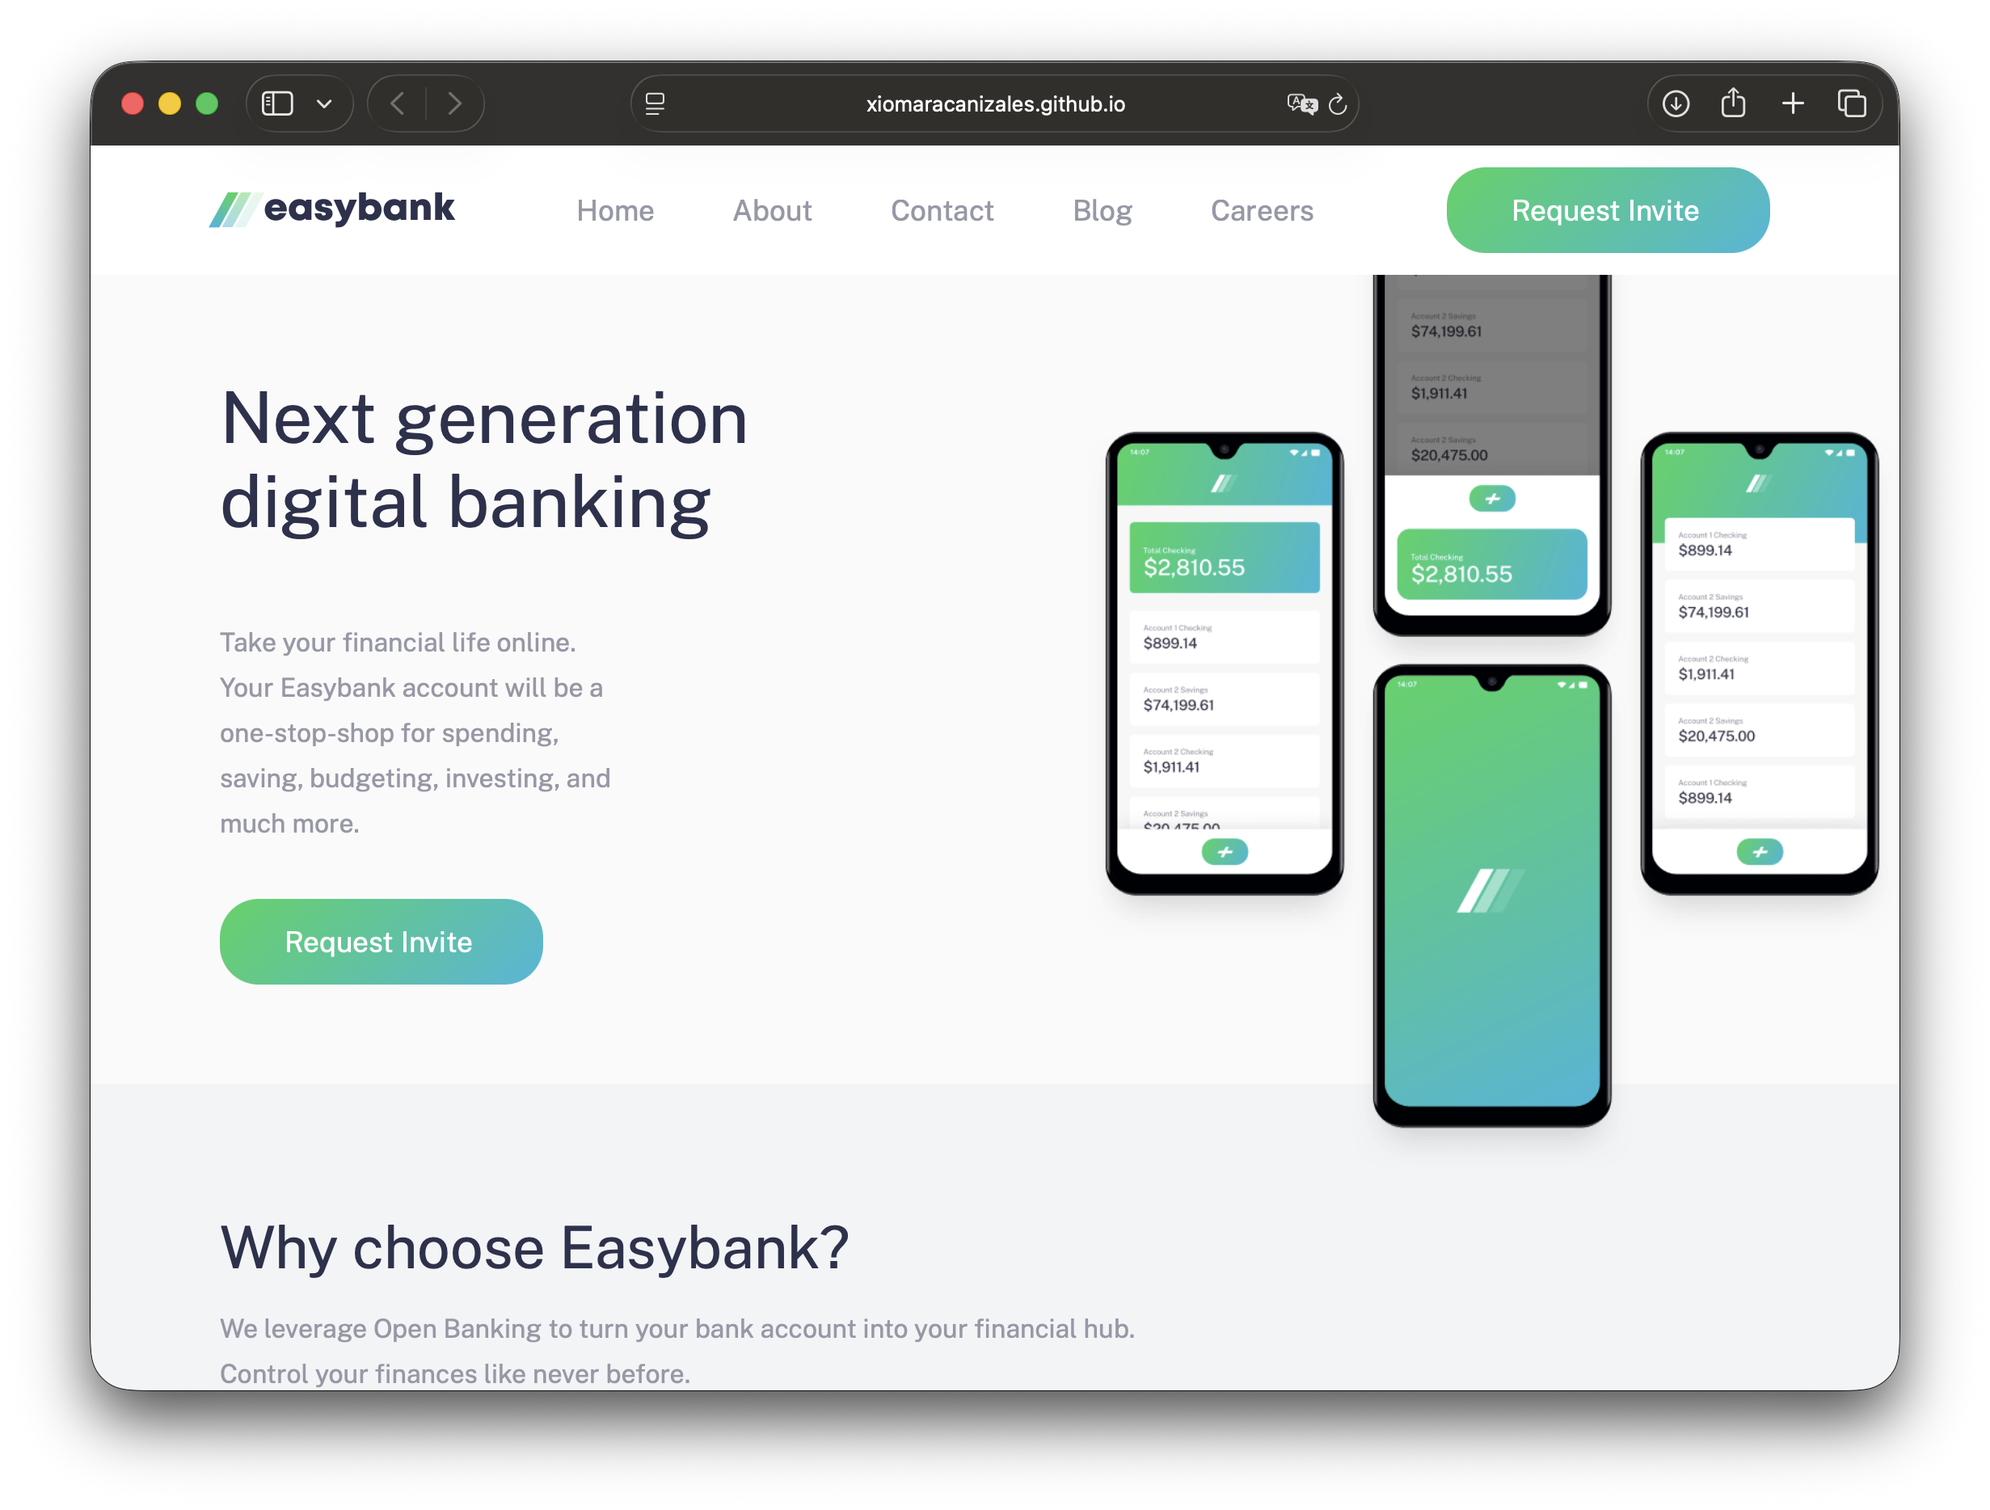
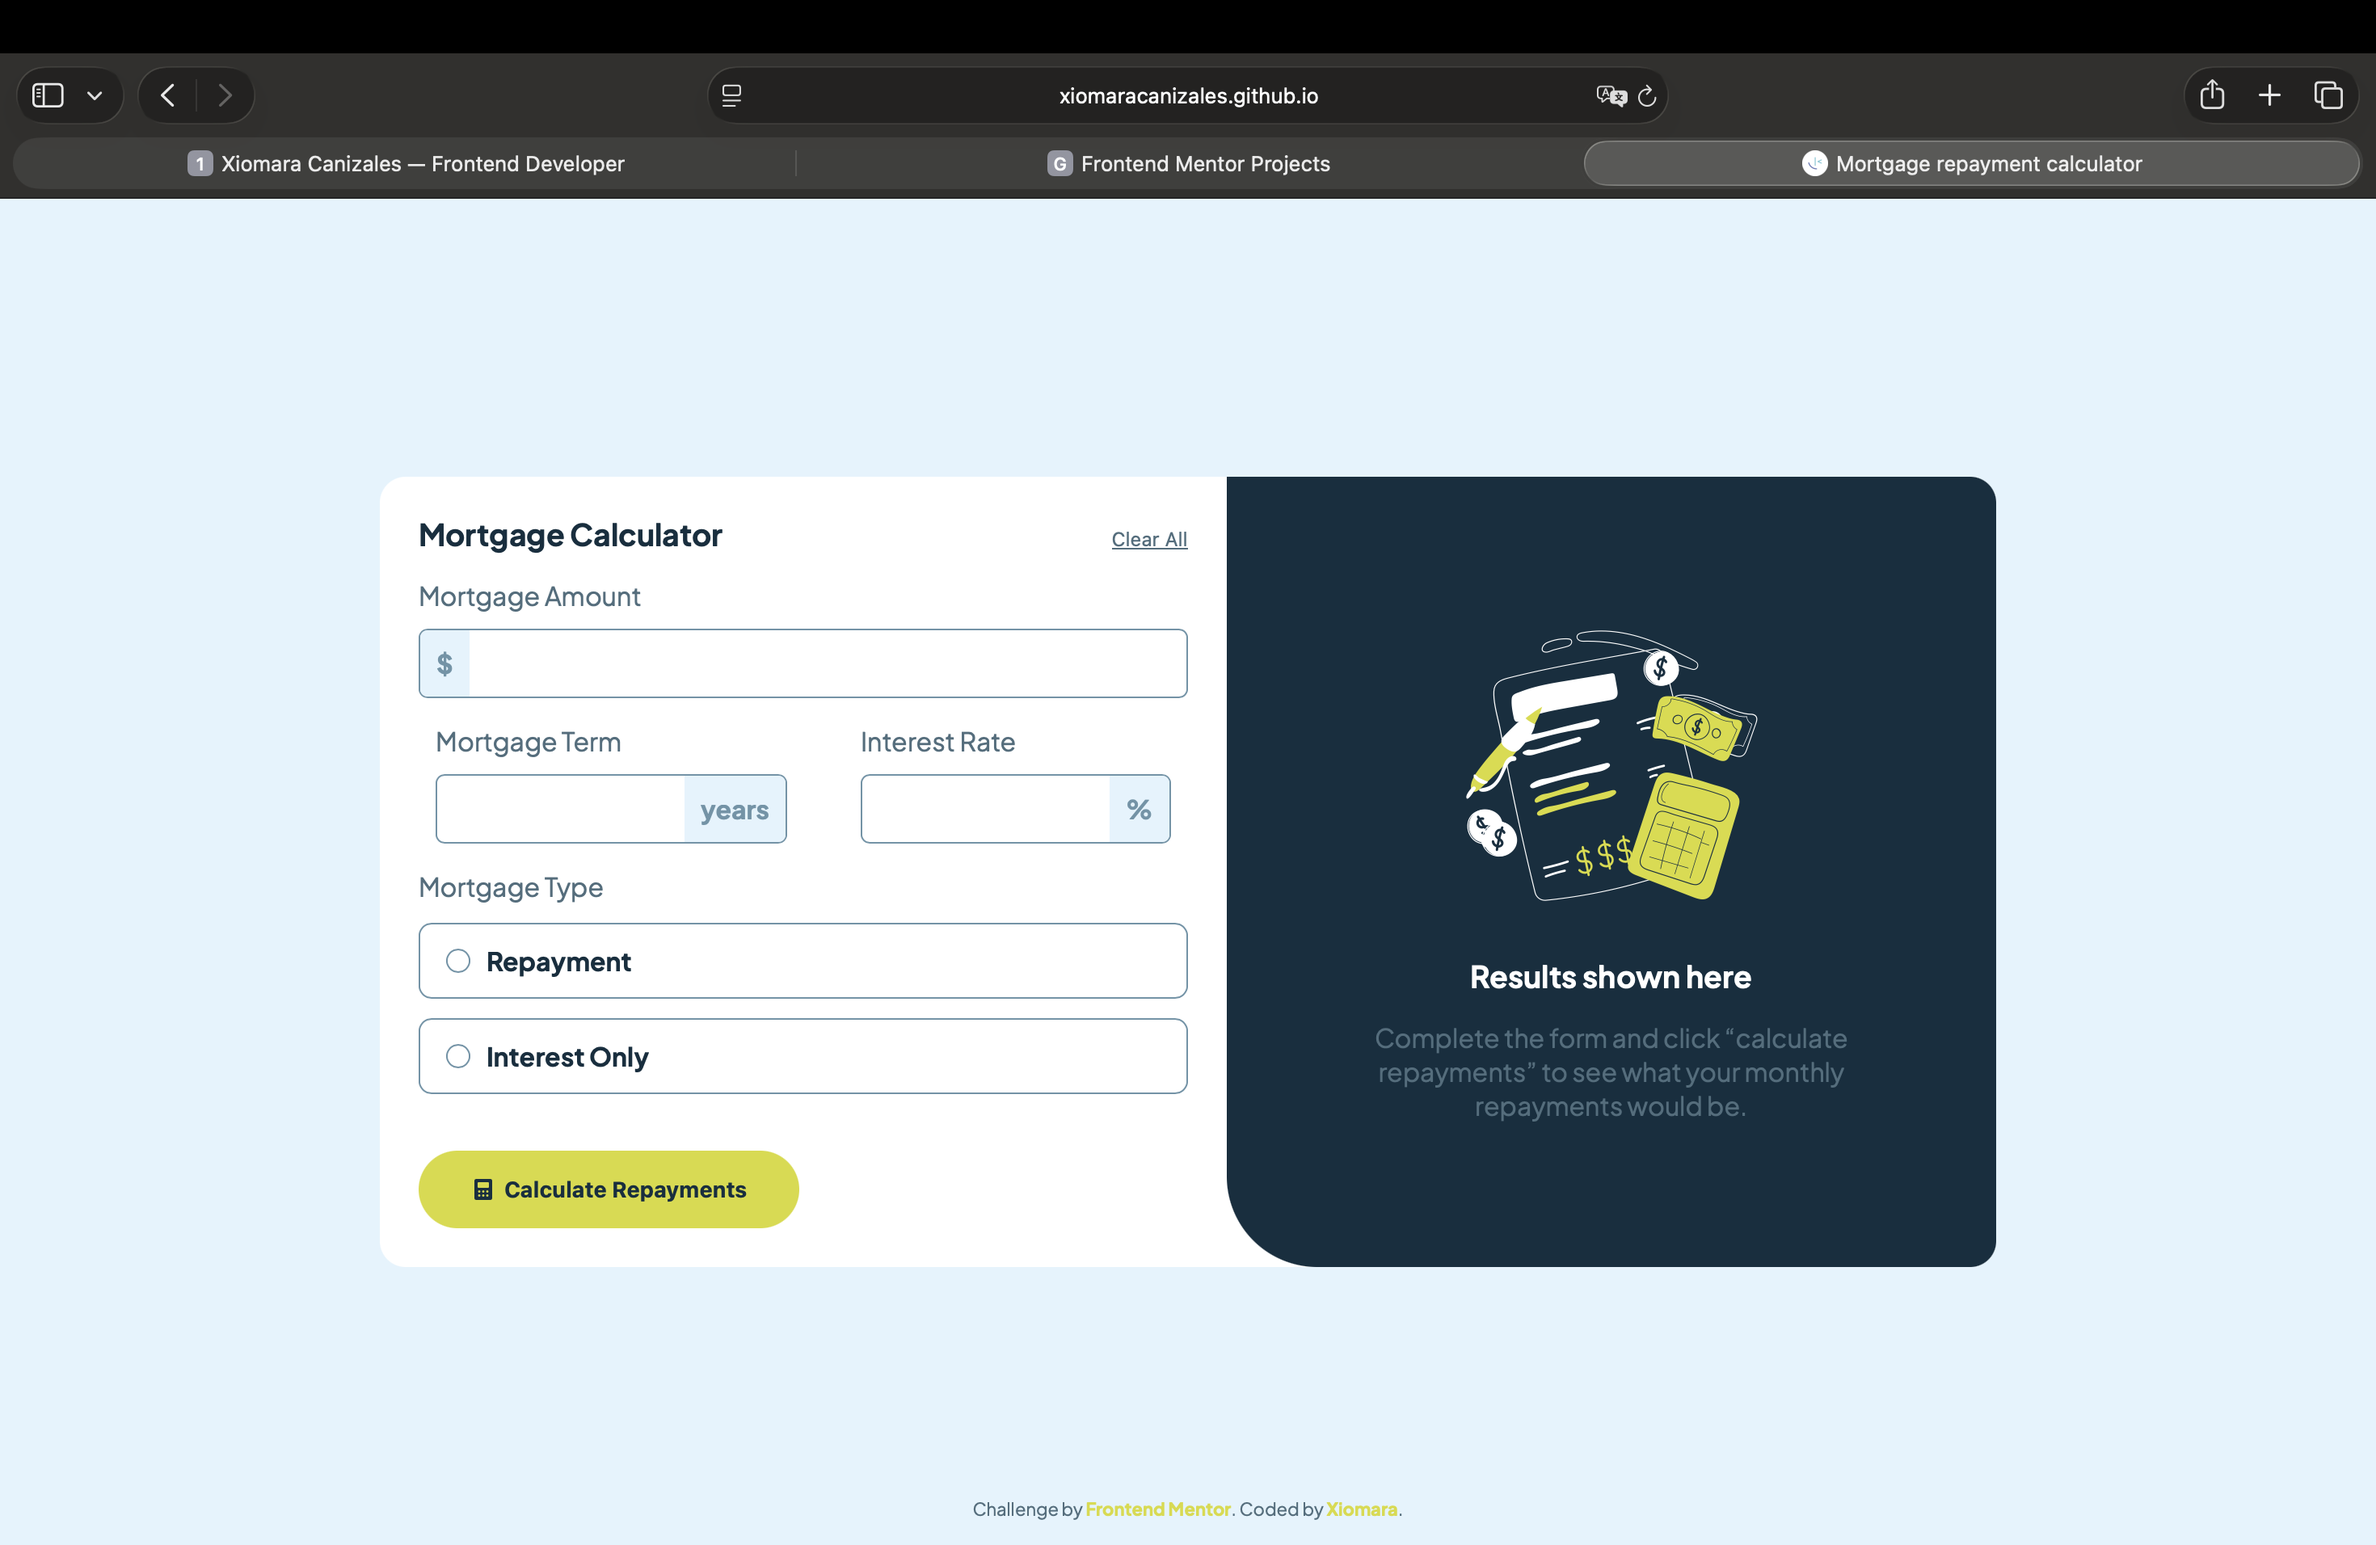
adding changes

diff --git a/index.html b/index.html
@@ -177,34 +177,12 @@
          <div class="projects-group">
             <div class="group-label">
                 <div class="group-label-line"></div>
-                <span class="group-label-text">Where it started</span>
-                <span class="group-label-badge badge-projects">Frontend & UI</span>
+                <span class="group-label-text">Frontend & UI</span>
                 <div class="group-label-line"></div>
             </div>
             <div class="projects-grid">
 
                 <!-- project #1 -->
-                <div class="project-card fade-in">
-                    <div class="card-image">
-                        <img src="images/easybank.png" alt="">
-                    </div>
-                    <div class="card-body">
-                        <div class="card-tags">
-                            <span class="card-tag">HTML</span>
-                            <span class="card-tag">CSS</span>
-                            <span class="card-tag">JavaScript</span>
-                            <span class="card-tag">Frontend Mentor</span>
-                        </div>
-                        <h3 class="card-title">Easybank Landing Page</h3>
-                        <p class="card-desc">A fully responsive landing page for a digital bank. Built to a professional design spec from Frontend Mentor.</p>
-                        <div class="card-links">
-                            <a href="https://xiomaracanizales.github.io/frontend-mentor-projects/easybank-landing-page/docs/index.html" target="_blank" class="card-link">Live demo →</a>
-                            <a href="https://github.com/XiomaraCanizales/frontend-mentor-projects/tree/main/3-easybank-landing-page" target="_blank" class="card-link github">GitHub →</a>
-                        </div>
-                    </div>
-                </div>
-
-                <!-- project #2 -->
                 <div class="project-card fade-in">
                     <div class="card-image">
                         <img src="images/news-homepage.png" alt="Project image">
@@ -221,6 +199,25 @@
                         <div class="card-links">
                             <a href="https://xiomaracanizales.github.io/frontend-mentor-projects/news-homepage/docs/index.html" target="_blank" class="card-link">Live demo →</a>
                             <a href="https://github.com/XiomaraCanizales/frontend-mentor-projects/tree/main/1-news-homepage" target="_blank" class="card-link github">GitHub →</a>
+                        </div>
+                    </div>
+                </div>
+
+                <!-- project #2 -->
+                <div class="project-card fade-in">
+                    <div class="card-image">
+                        <img src="images/pomodoro.png" alt="Project image">
+                    </div>
+                    <div class="card-body">
+                        <div class="card-tags">
+                            <span class="card-tag">CSS</span>
+                            <span class="card-tag">JavaScript</span>
+                            <span class="card-tag">DOM</span>
+                        </div>
+                        <h3 class="card-title">Pomodoro Timer</h3>
+                        <p>A productivity timer built in vanilla JavaScript. Handles work and break intervals with visual feedback — the project where JavaScript timers and DOM manipulation really clicked for me.</p>
+                        <div class="card-links">
+                            <a href="https://github.com/XiomaraCanizales/JS-projects/tree/main/other-projects/pomodoro" target="_blank" class="card-link github">GitHub →</a>
                         </div>
                     </div>
                 </div>
@@ -251,8 +248,7 @@
         <div class="projects-group">
             <div class="group-label">
                 <div class="group-label-line"></div>
-                <span class="group-label-text">Going deeper</span>
-                <span class="group-label-badge badge-projects">Fullstack & APIs</span>
+                <span class="group-label-text">Fullstack & APIs</span>
                 <div class="group-label-line"></div>
             </div>
             <div class="projects-grid">

diff --git a/style.css b/style.css
@@ -87,13 +87,13 @@ nav { position: fixed; top: 0; left: 0; right: 0; z-index: 100; display: flex; a
 .group-label { display: flex; align-items: center; gap: 16px; margin-bottom: 32px; }
 .group-label-line { flex: 1; height: 1px; background: var(--accent); }
 .group-label-text { font-size: 11px; font-weight: 500; letter-spacing: 0.12em; text-transform: uppercase; color: var(--text-soft); white-space: nowrap; }
-.group-label-badge { display: inline-flex; align-items: center; padding: 4px 12px; border-radius: 20px; font-size: 11px; font-weight: 500; white-space: nowrap; }
-.badge-projects { background: var(--bg); color: var(--accent); border: 1px solid rgba(212,83,126,0.2); }
 .projects-grid { display: grid; grid-template-columns: repeat(auto-fill, minmax(320px, 1fr)); gap: 24px; }
 .project-card { background: var(--bg); border: 1px solid var(--accent); border-radius: 20px; overflow: hidden; transition: transform 0.3s, box-shadow 0.3s; }
 .project-card:hover { transform: translateY(-4px); box-shadow: 0 0 30px rgba(212,83,126,0.15); }
-.card-image { height: 200px; position: relative; overflow: hidden; display: flex; align-items: center; justify-content: center; background: var(--bg); }
+.card-image { position: relative; background: var(--bg); }
 .card-image img { width: 100%; height: 100%; object-fit: 100%; }
+.frontend-img { padding: 1rem; }
+.frontend-img img { border-radius: 20px; box-shadow: 0 0 30px rgba(212,83,126,0.15); }
 .card-icon { font-size: 44px; position: relative; z-index: 1; }
 .card-body { padding: 24px 28px; }
 .card-tags { display: flex; gap: 6px; flex-wrap: wrap; margin-bottom: 12px; }
